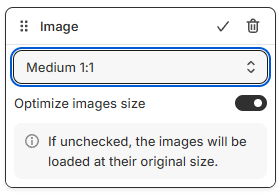
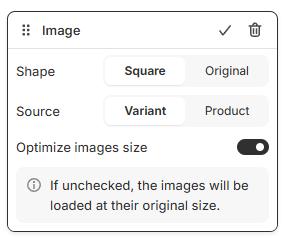
docs: update image options and source selection instructions in quiz builder documentation for improved clarity

diff --git a/docs/reference/quiz-builder/results-page.md b/docs/reference/quiz-builder/results-page.md
@@ -763,11 +763,11 @@
 
     ![manual_shopifyV2_quizbuilder_quizbuilder_resultspage_resultspages_blocksettings_productcomponents_image](/images/manual_shopifyV2_quizbuilder_quizbuilder_resultspage_resultspages_blocksettings_productcomponents_image.png)
 
-    `Picture size/ratio` - Choose the picture size for this block. Choose between `Square` or `Original` picture size (as uploaded to your Shopify Product).
+    `Shape` - Choose the shape of the image from `Square` or `Original`.
+
+    `Source` - Choose the source of the image from `Variant` or `Product`. Choose whether to display the variant-specific image or the main product image. Select `Variant` to show the image associated with the selected variant (falls back to main product image if the variant has no image). Select `Product` to always display the main product image regardless of the variant selection.
 
     `Optimize images size` - Select this option to optimize the image size for the quiz. If unchecked, the image will be displayed in the original size.
-
-    `Image source` - Choose whether to display the variant-specific image or the main product image. Select `Variant` to show the image associated with the selected variant (falls back to main product image if the variant has no image). Select `Product` to always display the main product image regardless of the variant selection.
 
     !!! tip
         Check this guide to learn how to add and adjust images for the quiz: [How to Add and Adjust Images](/how-to-guides/add-adjust-images/).

diff --git a/docs/how-to-guides/add-adjust-images.md b/docs/how-to-guides/add-adjust-images.md
@@ -1472,8 +1472,12 @@ There are the different ways you can add images to your quiz in the RevenueHunt 
 
         `Picture size/ratio` - Choose the picture size for this block. Choose between `Medium (1:1)` or `Original` picture size (as uploaded to your Shopify Product).
 
-        `Optimize images size` - Select this option to optimize the image size for the quiz. If unchecked, the image will be displayed in the original size.
+        `Shape` - Choose the shape of the image from `Square` or `Original`.
 
+        `Source` - Choose the source of the image from `Variant` or `Product`. Choose whether to display the variant-specific image or the main product image. Select `Variant` to show the image associated with the selected variant (falls back to main product image if the variant has no image). Select `Product` to always display the main product image regardless of the variant selection.
+
+        `Optimize images size` - Select this option to optimize the image size for the quiz. If unchecked, the image will be displayed in the original size.
+        
         !!! note
             Product images are taken directly from your Shopify catalog. Product slots diplsay the first image of the product, variant or a collection as uploaded to your Shopify Products/Collections section. 
 
